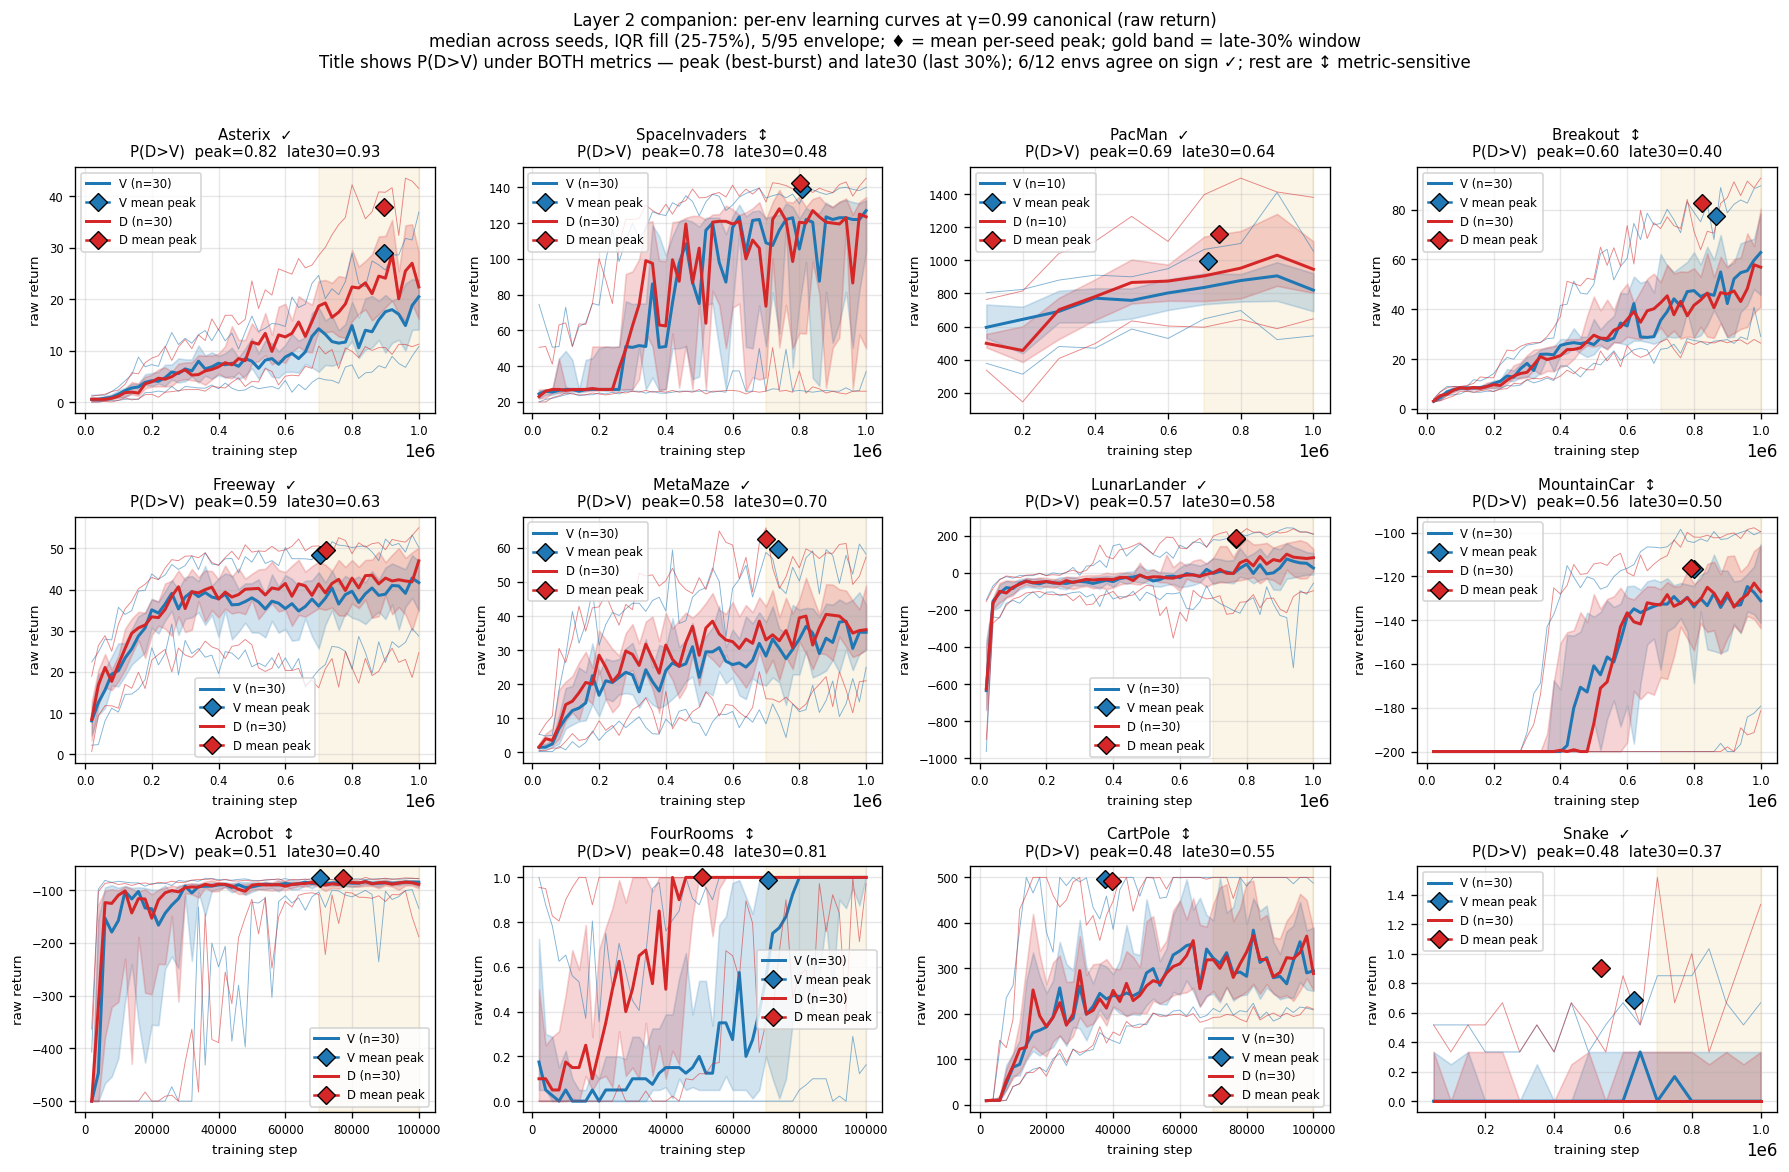
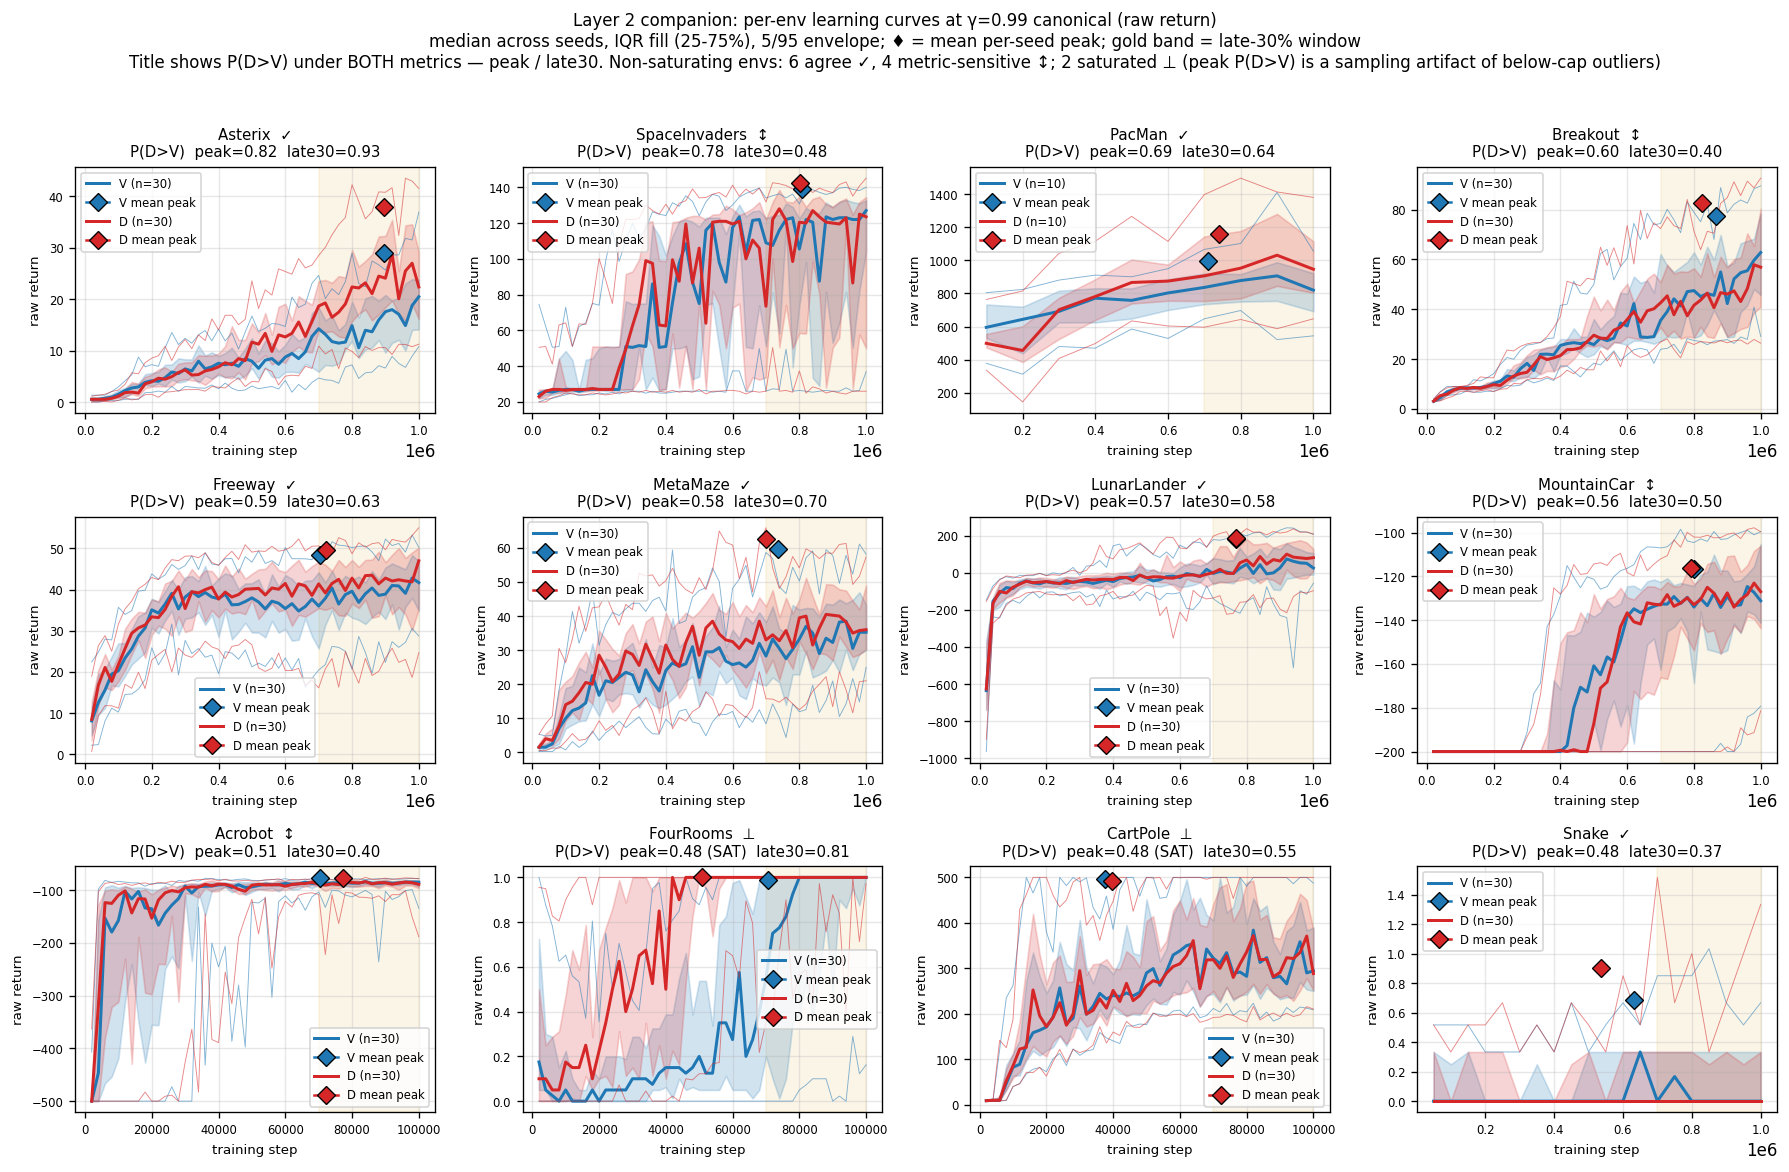
02b learning curves: flag saturated envs (peak metric not informative).
CartPole: 29/30 V seeds and 28/30 D seeds reach env cap=500.
FourRooms: similar — peak saturates at goal-reach.

Without the saturation flag, the 0.48 peak P(D>V) at CartPole reads
as "harm" — but it's a sampling artifact of 1-2 below-cap outlier
seeds, not a real treatment effect (both arms saturate).

Detection rule: if >70% of seeds in EITHER arm peak within 1% of
the joint env-cap, mark the env ⊥ saturated, suppress agreement
classification on the peak axis, and tag the peak P(D>V) with
'(SAT)' in the title.

Footer now reports: non-saturating ✓ agree count, ↕ metric-sensitive
count, ⊥ saturated count.

Changed region(s): [[0.0615, 0.0307, 0.9223, 0.0614], [0.5534, 0.7065, 0.7071, 0.7372], [0.3074, 0.7065, 0.4612, 0.7372]]

diff --git a/papers/g099_mediation/scripts/02b_learning_curves.py b/papers/g099_mediation/scripts/02b_learning_curves.py
@@ -177,12 +177,39 @@ def main() -> None:
 
         pk = pxy_peak.get(env, 0.5)
         lt = pxy_late.get(env, 0.5)
+        # Saturation detection: per-env env-cap inferred from the
+        # joint V+D max; if >70% of seeds in EITHER arm peak within
+        # 1% of the joint-cap, the peak metric saturates and its
+        # P(D>V) is a sampling-noise artifact of below-cap outliers,
+        # not a real treatment effect (e.g. CartPole 29/30 V + 28/30
+        # D seeds reach the env cap of 500).
+        peak_vals_all = sub['eval_best_burst_raw_mean'].drop_nulls().to_list()
+        env_cap = max(peak_vals_all) if peak_vals_all else 0.0
+        sat_frac_per_arm: list[float] = []
+        for arm in (BASELINE_ARM, TREATMENT_ARM):
+            arm_peaks = (
+                sub.filter(pl.col('arm_key') == arm)
+                ['eval_best_burst_raw_mean'].drop_nulls().to_list()
+            )
+            if arm_peaks and env_cap > 0:
+                sat_frac_per_arm.append(
+                    sum(1 for v in arm_peaks if v >= 0.99 * env_cap)
+                    / len(arm_peaks)
+                )
+        saturated = bool(sat_frac_per_arm) and max(sat_frac_per_arm) > 0.7
+
         sign_peak = '+' if pk > 0.5 else ('−' if pk < 0.5 else '·')
         sign_late = '+' if lt > 0.5 else ('−' if lt < 0.5 else '·')
-        agree = '✓' if sign_peak == sign_late else '↕'
+        # Don't call ↕ vs ✓ on the peak axis when peak is saturated.
+        if saturated:
+            agree = '⊥'  # saturated: peak metric not informative
+            peak_label = f'peak={pk:.2f} (SAT)'
+        else:
+            agree = '✓' if sign_peak == sign_late else '↕'
+            peak_label = f'peak={pk:.2f}'
         ax.set_title(
             f'{env_label(env)}  {agree}\n'
-            f'P(D>V)  peak={pk:.2f}  late30={lt:.2f}',
+            f'P(D>V)  {peak_label}  late30={lt:.2f}',
             fontsize=9,
         )
         ax.set_xlabel('training step', fontsize=8)
@@ -194,17 +221,41 @@ def main() -> None:
     for j in range(n, len(axes_flat)):
         axes_flat[j].set_axis_off()
 
-    n_agree = sum(
-        1 for e in envs
-        if (pxy_peak.get(e, 0.5) - 0.5) * (pxy_late.get(e, 0.5) - 0.5) >= 0
-    )
+    # Recompute agreement counts with saturation flag.
+    n_agree = 0
+    n_sat = 0
+    n_disagree = 0
+    for e in envs:
+        sub_e = df.filter(pl.col('env_name') == e)
+        peak_vals_all = sub_e['eval_best_burst_raw_mean'].drop_nulls().to_list()
+        env_cap = max(peak_vals_all) if peak_vals_all else 0.0
+        sat_frac_per_arm: list[float] = []
+        for arm in (BASELINE_ARM, TREATMENT_ARM):
+            arm_peaks = (
+                sub_e.filter(pl.col('arm_key') == arm)
+                ['eval_best_burst_raw_mean'].drop_nulls().to_list()
+            )
+            if arm_peaks and env_cap > 0:
+                sat_frac_per_arm.append(
+                    sum(1 for v in arm_peaks if v >= 0.99 * env_cap)
+                    / len(arm_peaks)
+                )
+        if sat_frac_per_arm and max(sat_frac_per_arm) > 0.7:
+            n_sat += 1
+            continue
+        pk = pxy_peak.get(e, 0.5)
+        lt = pxy_late.get(e, 0.5)
+        if (pk - 0.5) * (lt - 0.5) >= 0:
+            n_agree += 1
+        else:
+            n_disagree += 1
     fig.suptitle(
         'Layer 2 companion: per-env learning curves at γ=0.99 canonical (raw return)\n'
         'median across seeds, IQR fill (25-75%), 5/95 envelope; ♦ = mean per-seed peak; '
         'gold band = late-30% window\n'
-        f'Title shows P(D>V) under BOTH metrics — peak (best-burst) and '
-        f'late30 (last 30%); {n_agree}/{len(envs)} envs agree on sign ✓; '
-        'rest are ↕ metric-sensitive',
+        f'Title shows P(D>V) under BOTH metrics — peak / late30. '
+        f'Non-saturating envs: {n_agree} agree ✓, {n_disagree} metric-sensitive ↕; '
+        f'{n_sat} saturated ⊥ (peak P(D>V) is a sampling artifact of below-cap outliers)',
         fontsize=10,
     )
     plt.tight_layout(rect=[0, 0, 1, 0.96])
